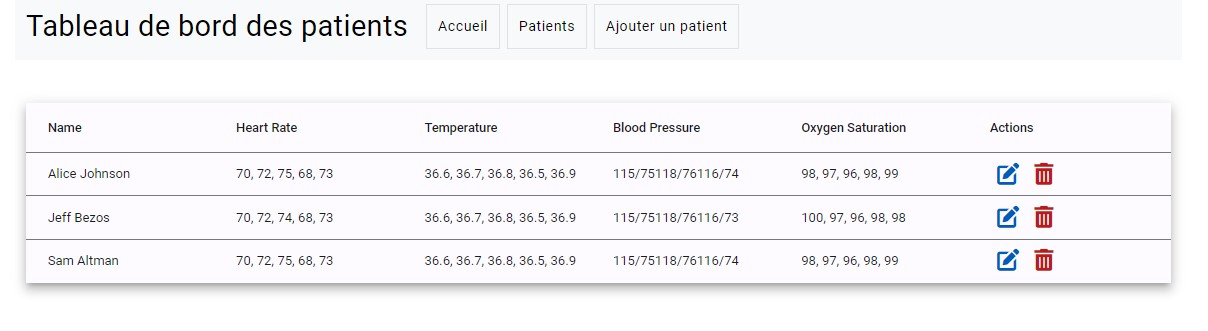
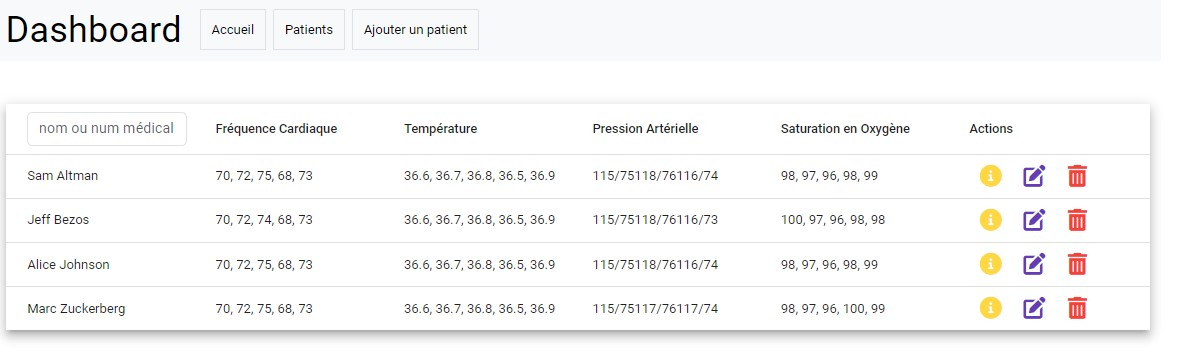
Add Swagger configuration to Spring Boot application

diff --git a/frontend-diag-vascular-diseases/src/app/patient-list/patient-list.component.html b/frontend-diag-vascular-diseases/src/app/patient-list/patient-list.component.html
@@ -4,7 +4,8 @@
     <!-- Name Column -->
     <ng-container matColumnDef="name">
       <mat-header-cell *matHeaderCellDef>
-        <input type="text" id="search" class="form-control" placeholder="Rechercher" [formControl]="searchTermControl">
+
+        <input type="text" id="search" class="form-control" placeholder="Rechercher" [formControl]="searchTermControl"  placeholder="nom ou num médical ">
       </mat-header-cell>
       <mat-cell *matCellDef="let patient" (click)="viewPatientDetails(patient)">
         {{ patient.firstName }} {{ patient.lastName }}

diff --git a/frontend-diag-vascular-diseases/src/app/patient-details/patient-details.component.html b/frontend-diag-vascular-diseases/src/app/patient-details/patient-details.component.html
@@ -1,8 +1,8 @@
 <div *ngIf="patient" class="container">
   <h2 class="my-4">Détails de {{ patient.firstName }} {{ patient.lastName }}</h2>
   <h3>Informations Générales</h3>
-  <p>Âge: {{ patient.age }}</p>
-  <p>Numéro de Dossier Médical: {{ patient.medicalRecordNumber }}</p>
+  <p>Âge : {{ patient.age }} ans</p>
+  <p>Numéro de Dossier Médical : {{ patient.medicalRecordNumber }}</p>
 
   <div class="row mb-4">
     <div class="col-md-6">

diff --git a/frontend-diag-vascular-diseases/src/app/edit-patient/edit-patient.component.html b/frontend-diag-vascular-diseases/src/app/edit-patient/edit-patient.component.html
@@ -1,7 +1,7 @@
 <div class="row m-5">
   <div class="col-12 col-md-10 col-lg-8 col-xl-6 mx-auto">
     <div class="bg-white shadow rounded p-4">
-      <h3 class="display-6 text-dark text-center">Modifier les données du Patient</h3>
+      <h1 class="display-6 text-dark text-center">Modifier les données du patient</h1>
       <hr class="bg-dark mb-5" />
 
       <form [formGroup]="editPatientForm" (ngSubmit)="updatePatient()">

diff --git a/frontend-diag-vascular-diseases/src/app/add-patient/add-patient.component.html b/frontend-diag-vascular-diseases/src/app/add-patient/add-patient.component.html
@@ -1,7 +1,7 @@
 <div class="row m-5">
   <div class="col-12 col-md-10 col-lg-8 col-xl-6 mx-auto">
     <div class="bg-white shadow rounded p-4">
-      <h3 class="display-6 text-dark text-center">Ajouter un Patient</h3>
+      <h1 class="display-6 text-dark text-center">Ajouter un patient</h1>
       <hr class="bg-dark mb-5" />
 
       <form [formGroup]="newPatientForm" (ngSubmit)="addPatient()">

diff --git a/backend-diag-vascular-diseases/src/main/java/com/dame/backend_diag_vascular_diseases/controller/PatientController.java b/backend-diag-vascular-diseases/src/main/java/com/dame/backend_diag_vascular_diseases/controller/PatientController.java
@@ -2,6 +2,8 @@ package com.dame.backend_diag_vascular_diseases.controller;
 
 import com.dame.backend_diag_vascular_diseases.entity.Patient;
 import com.dame.backend_diag_vascular_diseases.repository.PatientRepository;
+import io.swagger.v3.oas.annotations.Operation;
+import io.swagger.v3.oas.annotations.tags.Tag;
 import org.springframework.beans.factory.annotation.Autowired;
 import org.springframework.http.ResponseEntity;
 import org.springframework.web.bind.annotation.*;
@@ -10,17 +12,20 @@ import java.util.List;
 
 @RestController
 @RequestMapping("/api/patients")
+@Tag(name = "Patient Management", description = "Operations related to patient management")
 public class PatientController {
 
     @Autowired
     private PatientRepository patientRepository;
 
     @GetMapping
+    @Operation(summary = "View a list of all patients", description = "Retrieve a list of all patients in the system")
     public List<Patient> getAllPatients() {
         return patientRepository.findAll();
     }
 
     @GetMapping("/{id}")
+    @Operation(summary = "Get a patient by ID", description = "Retrieve a patient by their unique identifier")
     public ResponseEntity<Patient> getPatientById(@PathVariable Long id) {
         return patientRepository.findById(id)
                 .map(patient -> ResponseEntity.ok().body(patient))
@@ -28,11 +33,13 @@ public class PatientController {
     }
 
     @PostMapping
+    @Operation(summary = "Create a new patient", description = "Add a new patient to the system")
     public Patient createPatient(@RequestBody Patient patient) {
         return patientRepository.save(patient);
     }
 
     @PutMapping("/{id}")
+    @Operation(summary = "Update an existing patient", description = "Update the details of an existing patient by their ID")
     public ResponseEntity<Patient> updatePatient(@PathVariable Long id, @RequestBody Patient patientDetails) {
         return patientRepository.findById(id)
                 .map(patient -> {
@@ -48,6 +55,7 @@ public class PatientController {
     }
 
     @DeleteMapping("/{id}")
+    @Operation(summary = "Delete a patient", description = "Remove a patient from the system by their ID")
     public ResponseEntity<Object> deletePatient(@PathVariable Long id) {
         return patientRepository.findById(id)
                 .map(patient -> {

diff --git a/README.md b/README.md
@@ -11,6 +11,14 @@ spring.jpa.hibernate.ddl-auto=update
 spring.main.allow-circular-references=true
 ```
 
+### Springdoc OpenAPI Configuration
+```
+# Springdoc OpenAPI configuration
+springdoc.api-docs.path=/api-docs
+springdoc.swagger-ui.path=/swagger-ui
+```
+
+
 ## Frontend Angular
 
 ### Homepage
